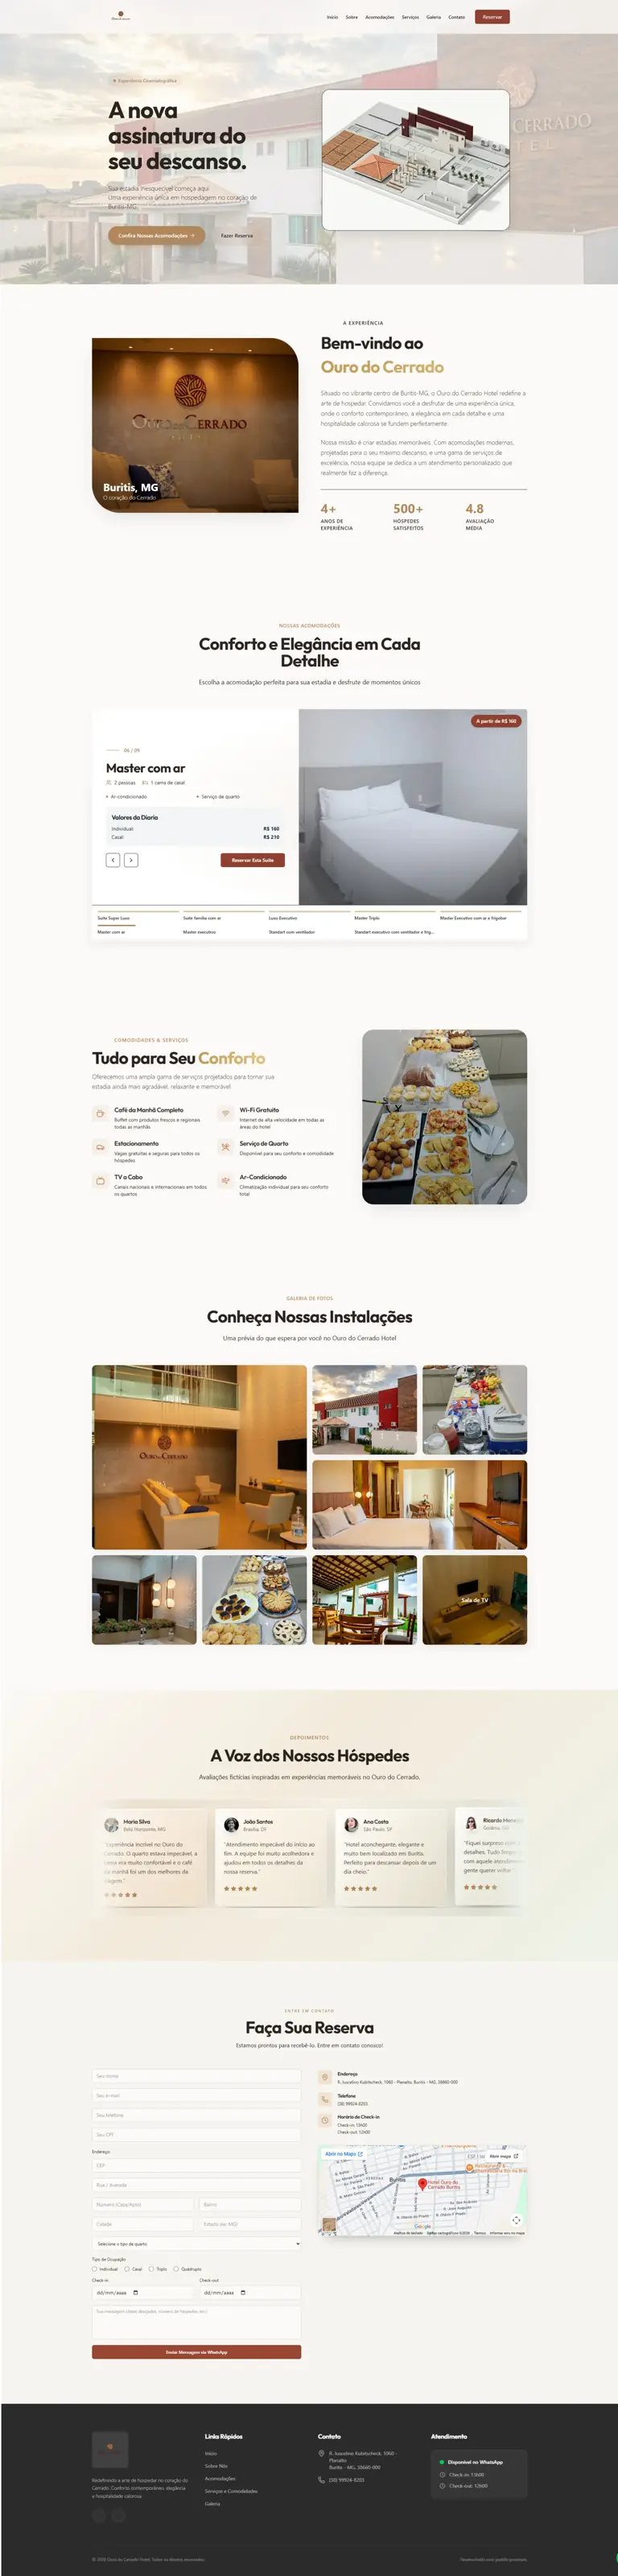
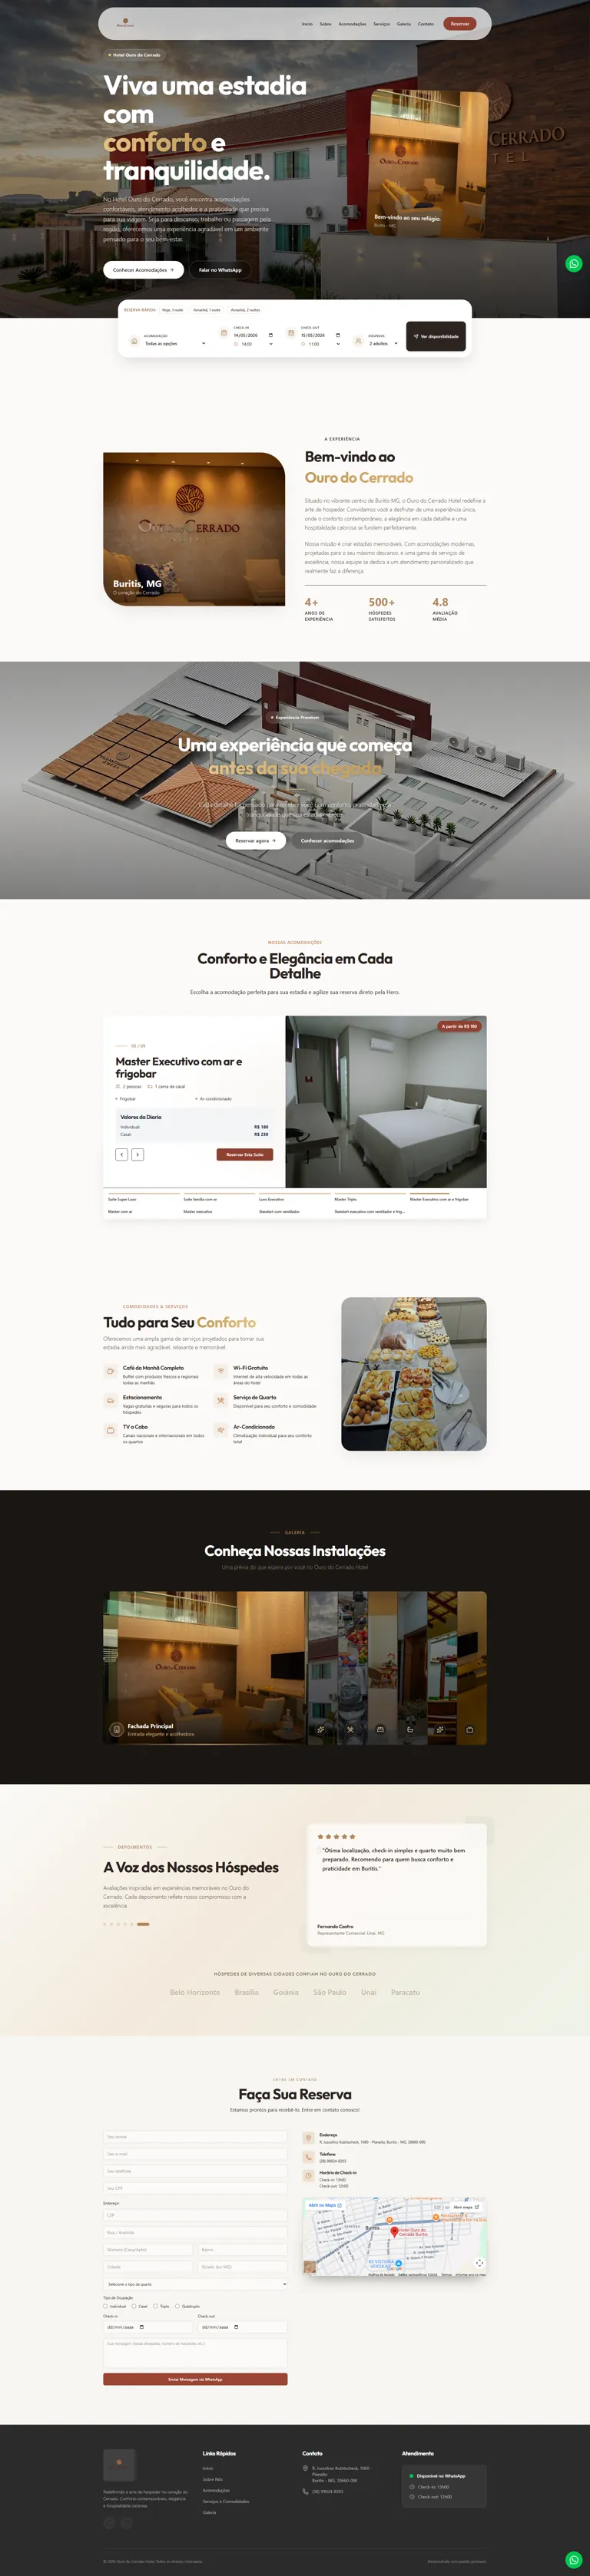
feat: add portfolio projects data structure and associated optimized images

diff --git a/src/data/portfolioProjects.ts b/src/data/portfolioProjects.ts
@@ -55,7 +55,7 @@ export const portfolioProjects: PortfolioProject[] = [
       "/images/portfolio/optimized/hotel-ouro-cerrado-fullpage-384.webp 384w, /images/portfolio/optimized/hotel-ouro-cerrado-fullpage-768.webp 768w",
     previewSizes: portfolioPreviewSizes,
     previewWidth: 384,
-    previewHeight: 1600,
+    previewHeight: 1678,
     badges: ["Premium", "Sistema de Reservas"],
     tags: ["React", "Tailwind", "Vite"],
     link: "https://www.hotelourodocerrado.com.br",